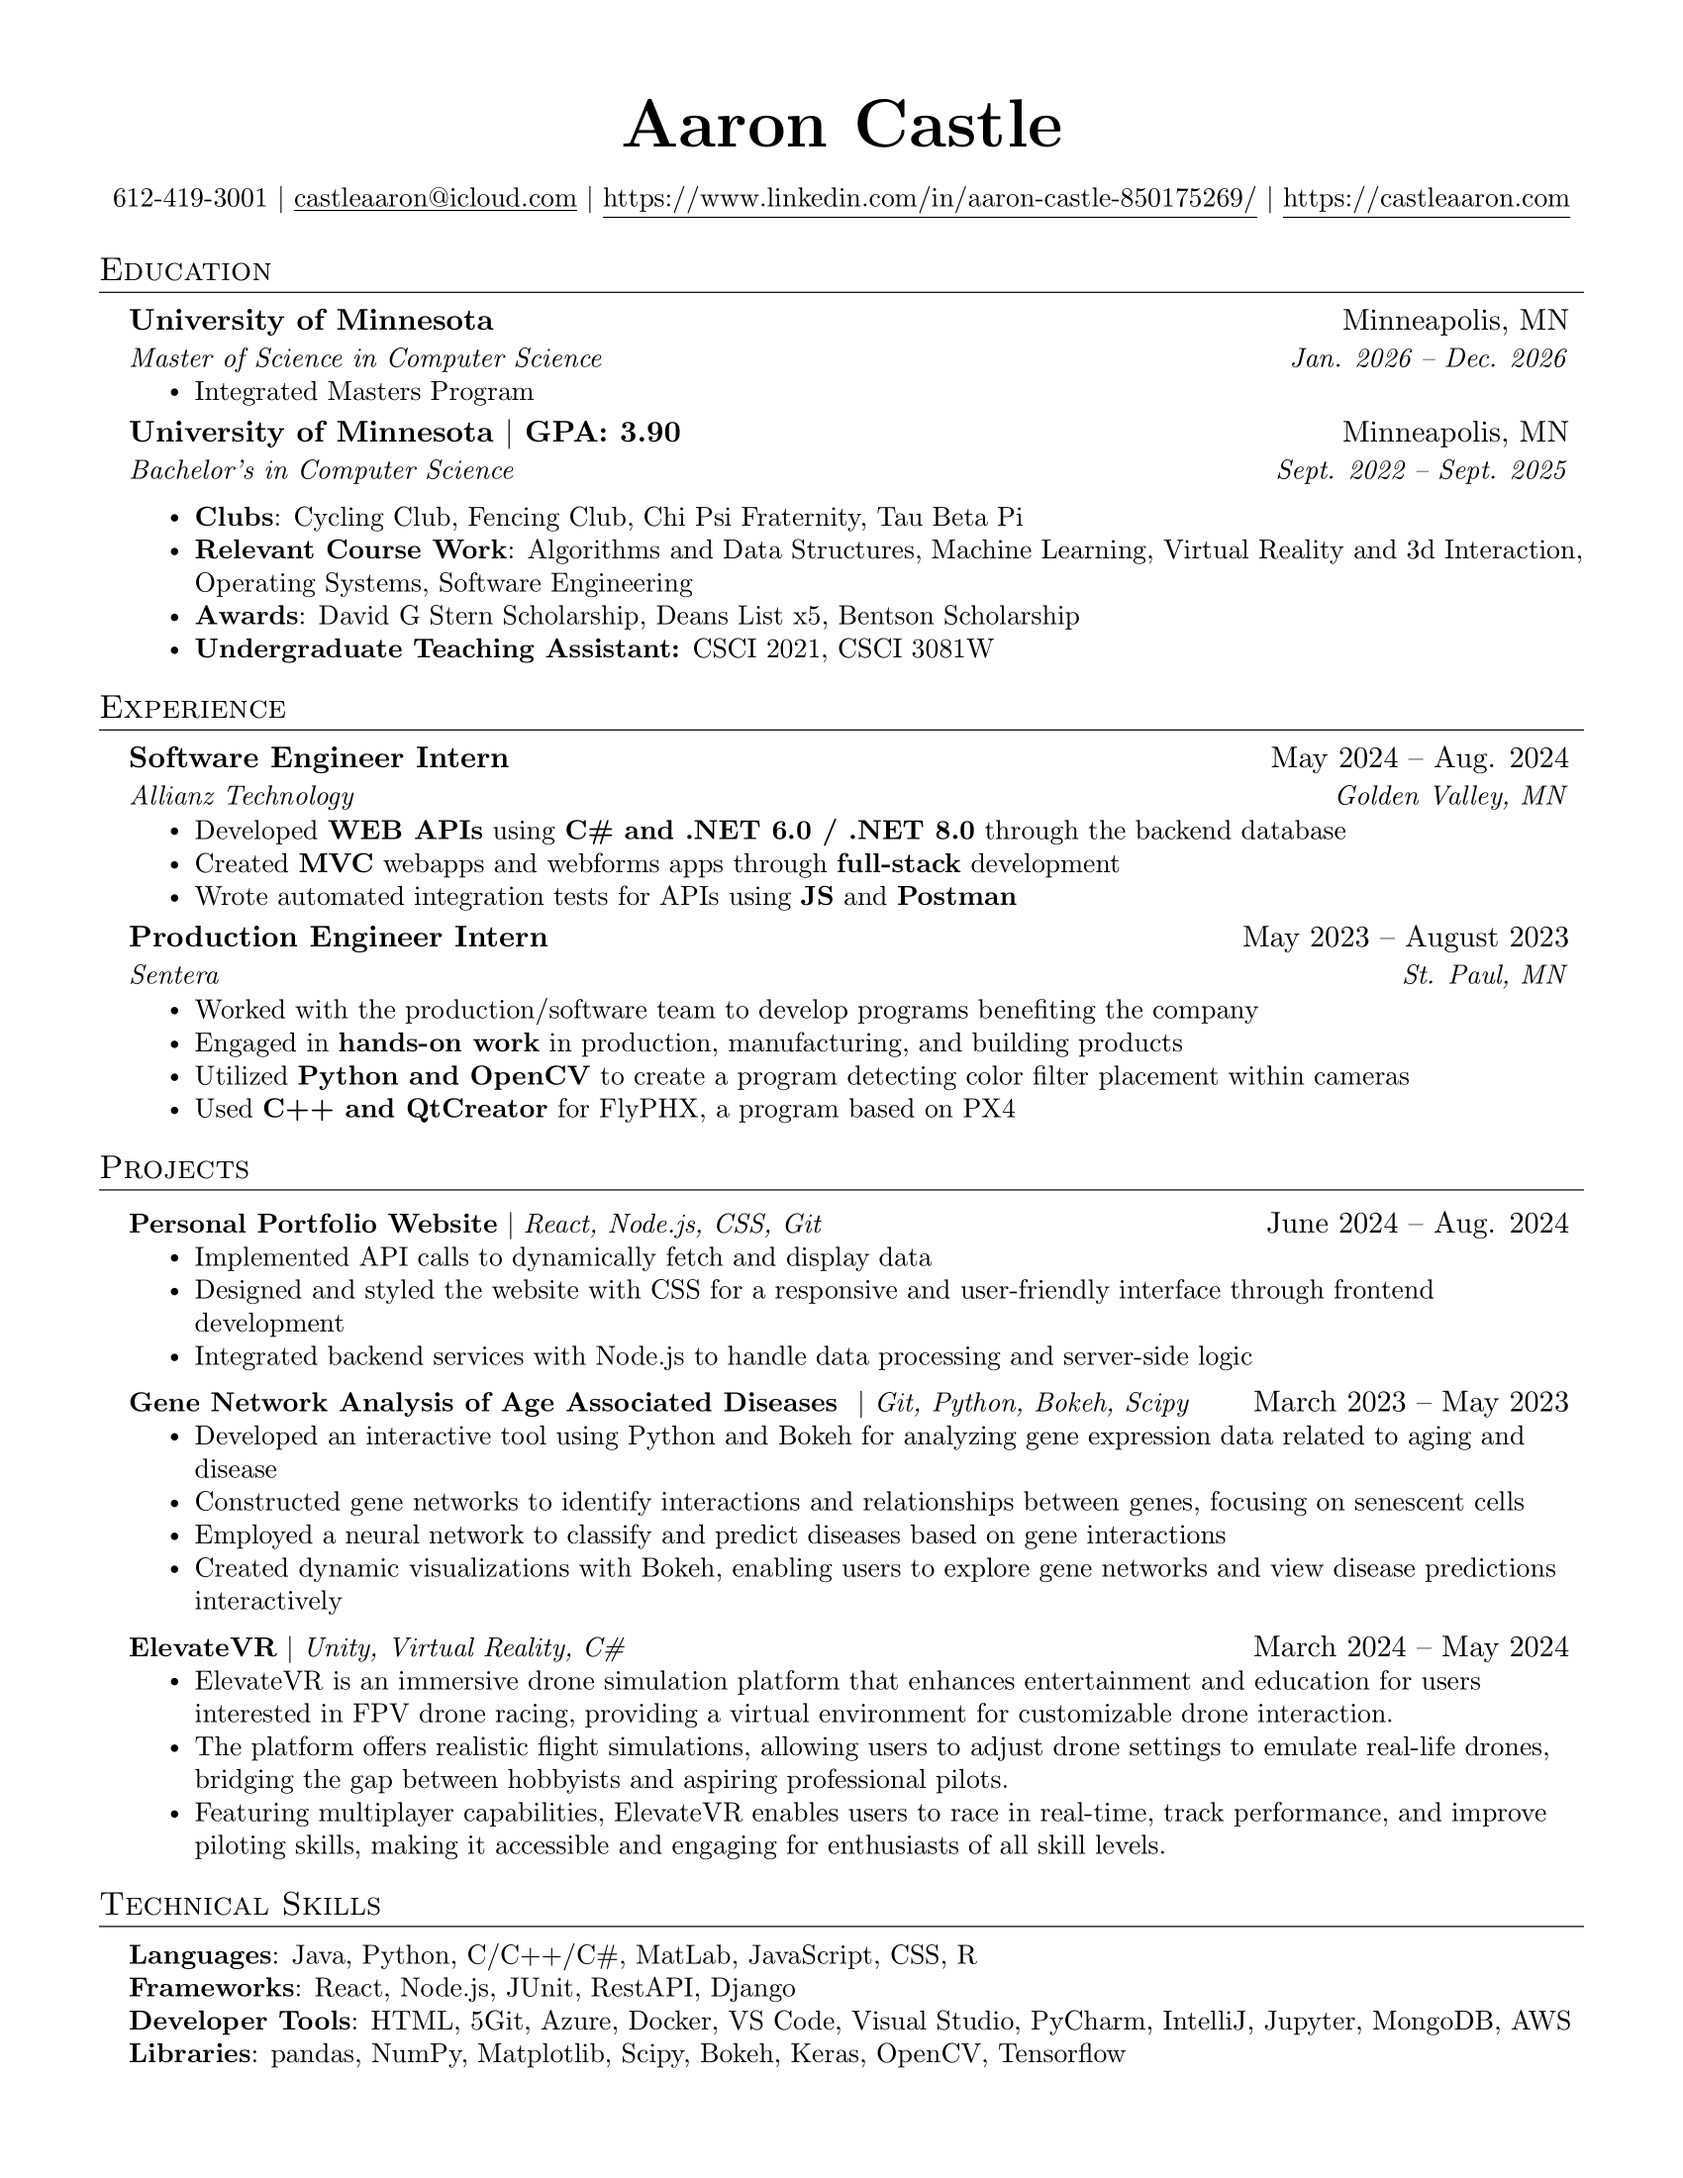
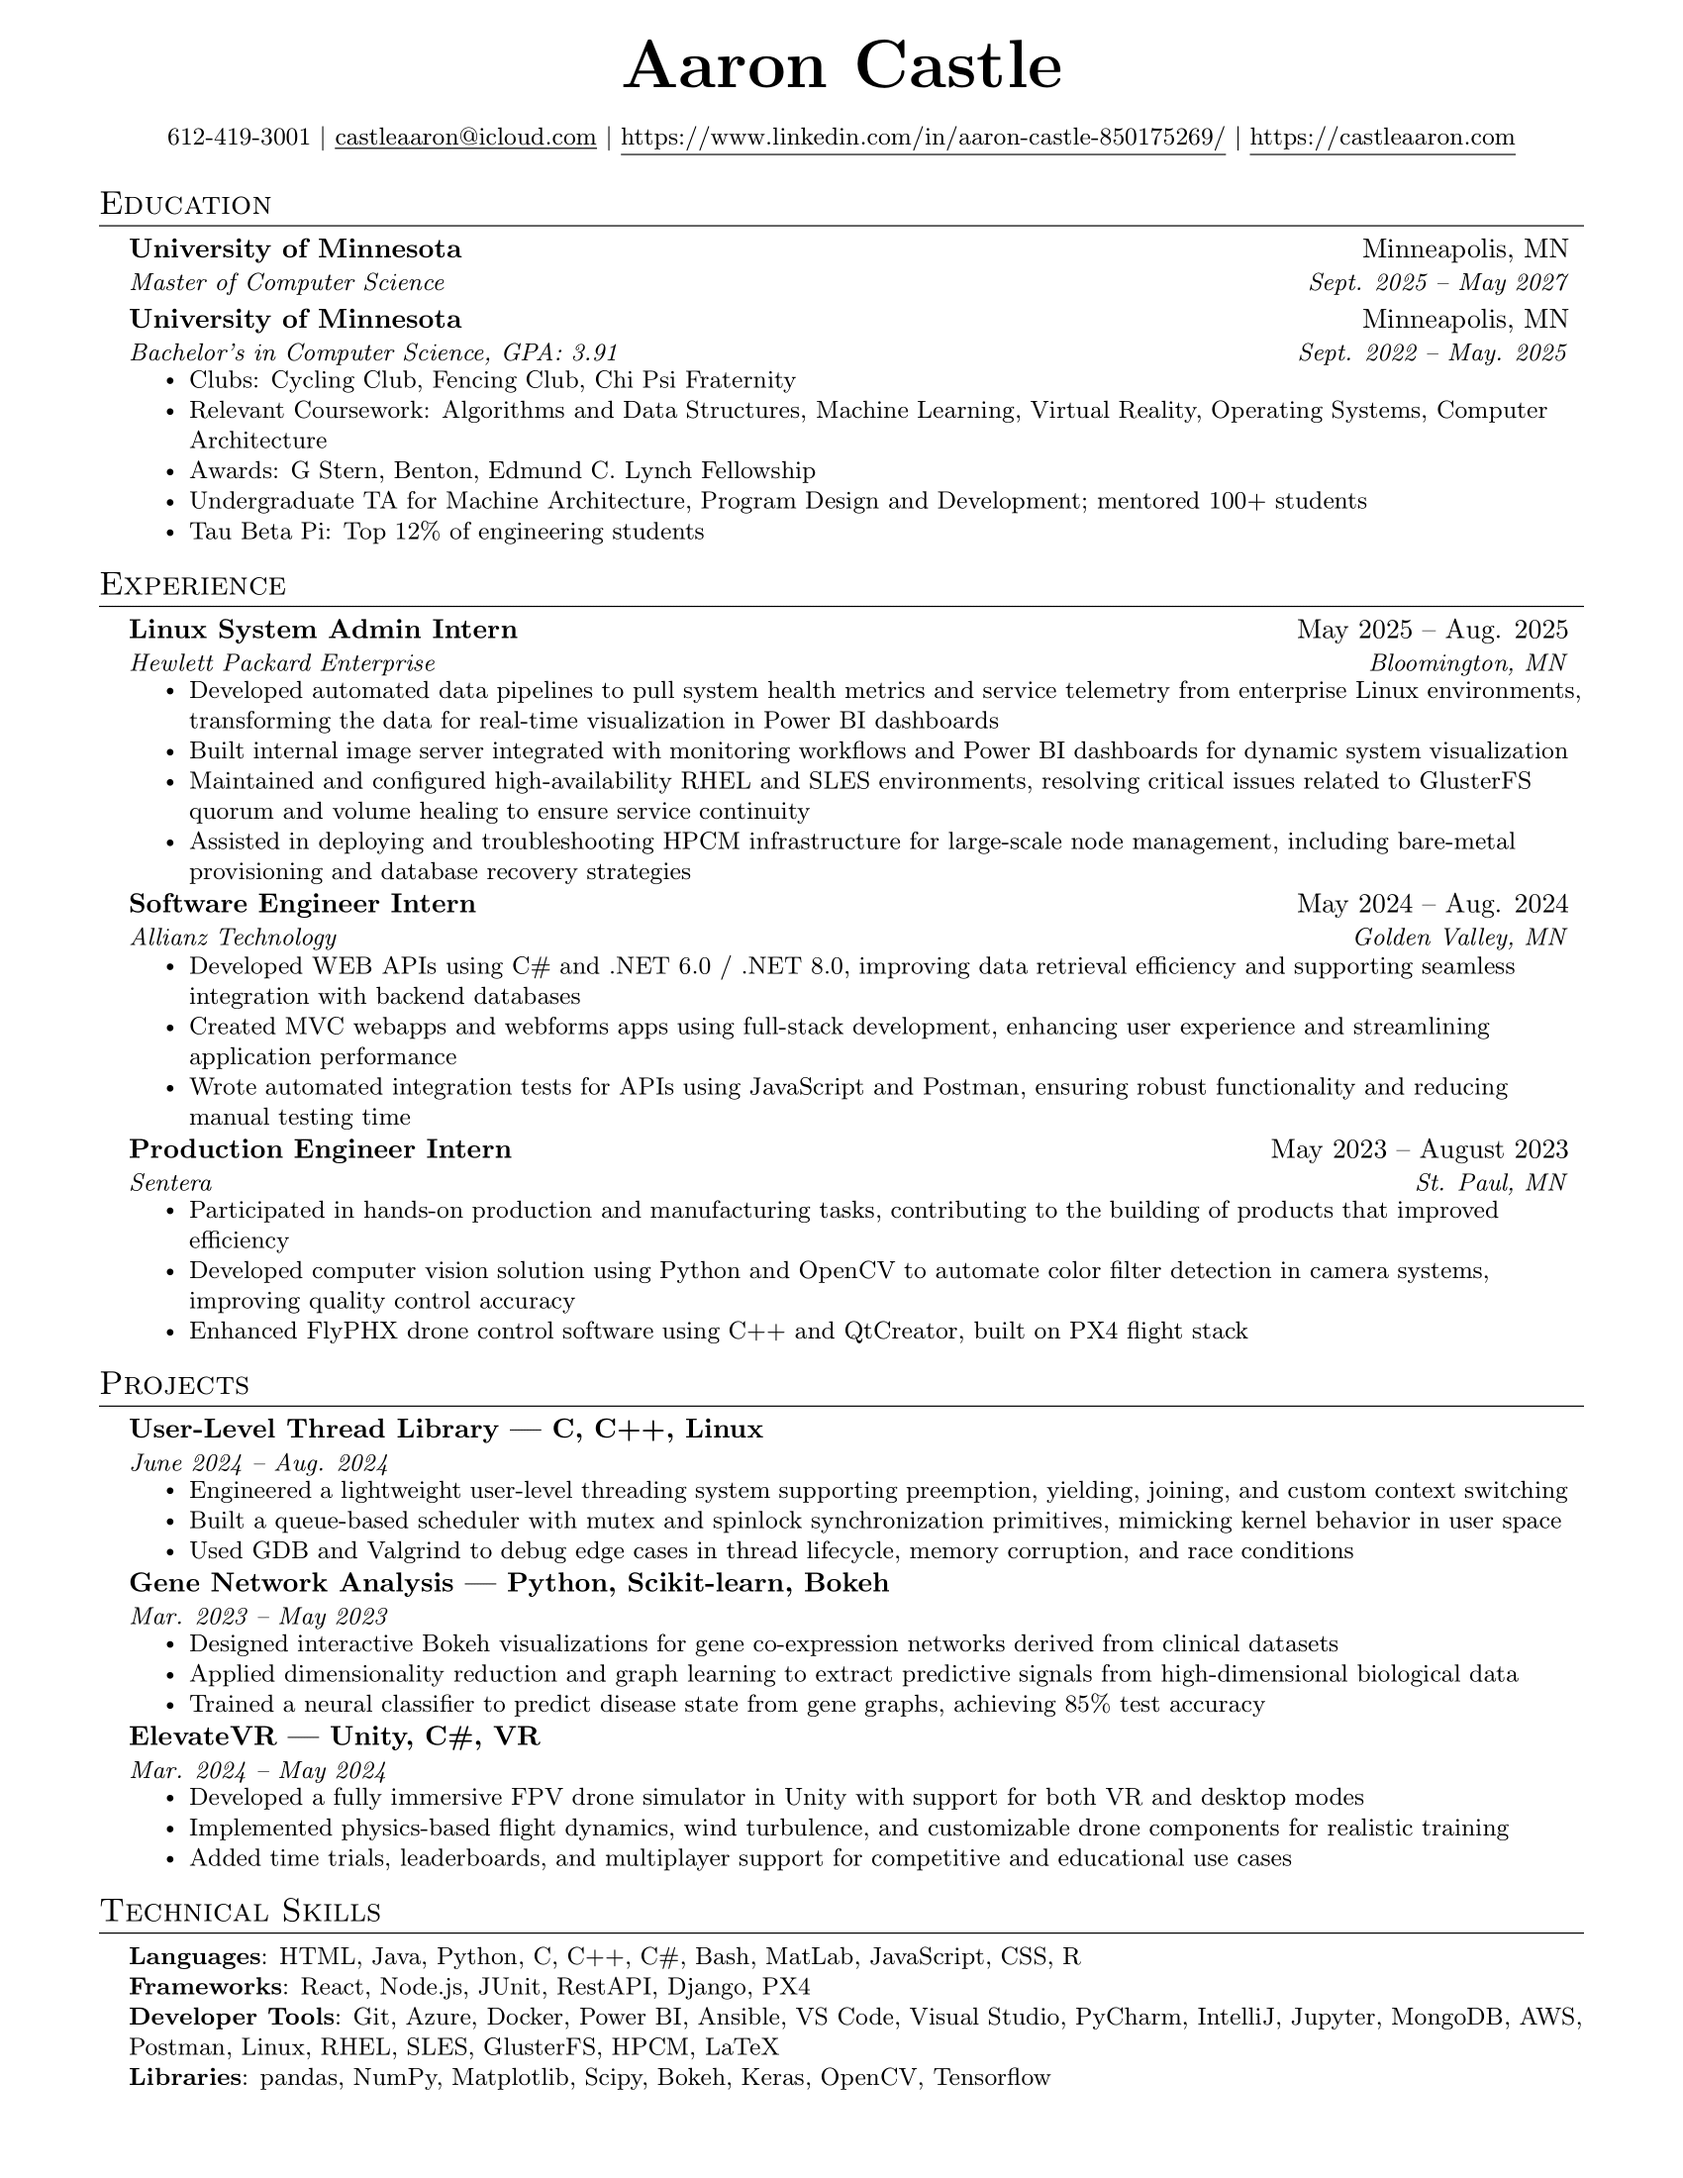
resume update

diff --git a/src/Pages/About/About.jsx b/src/Pages/About/About.jsx
@@ -75,13 +75,13 @@ const About = () => {
           <p>
             I'm currently pursuing a <strong>Master of Science in Computer Science</strong>{" "}
             at the University of Minnesota. I also completed my Bachelor's degree in Computer Science here, graduating
-            with a stellar <strong>3.90 GPA</strong>!
+            with a stellar <strong>3.91 GPA</strong>!
           </p>
         </div>
         <h1 className="about-me-header">⚙ Experience:</h1>
         <div className="about-me">
             <p>
-              I've honed my skills as a <strong>Software Engineer Intern</strong> at Allianz
+              I've honed my skills as a <strong>Linux Systems Administrator</strong> at Hewlett Packard Enterprise, a <strong>Software Engineer Intern</strong> at Allianz
               Technology and as a <strong>Production Engineer Intern</strong> at Sentera. I also enjoy helping others as
               an <strong>Undergraduate Teaching Assistant</strong>.
             </p>
@@ -89,7 +89,7 @@ const About = () => {
           <h1 className="about-me-header">👨💻 Skills:</h1>
           <div className="about-me">
             <p>
-              I'm skilled in Java, Python, C/C++, and JavaScript. I build responsive websites
+              I'm skilled in Java, Python, C/C++/C#, and JavaScript. I build responsive websites
               with React and Node.js, analyze data with Python, and create innovative solutions with OpenCV and other
               libraries.
             </p>
@@ -98,7 +98,7 @@ const About = () => {
           <div className="about-me">
             <p>
               <strong>Hobbies:</strong> When I'm not coding, you can find me cycling, fencing, or engaging with my
-              fraternity and university clubs.
+               university clubs.
             </p>
           </div>
         

diff --git a/src/Pages/Resume/Resume.jsx b/src/Pages/Resume/Resume.jsx
@@ -33,7 +33,7 @@ const Resume = () => {
       </div>
 
       <div className="resume-footer">
-        <p>Last updated: March 2024</p>
+        <p>Last updated: July 2025</p>
         <p>
           Feel free to <a href="mailto:castleaaron@icloud.com">contact me</a> for more information
         </p>
